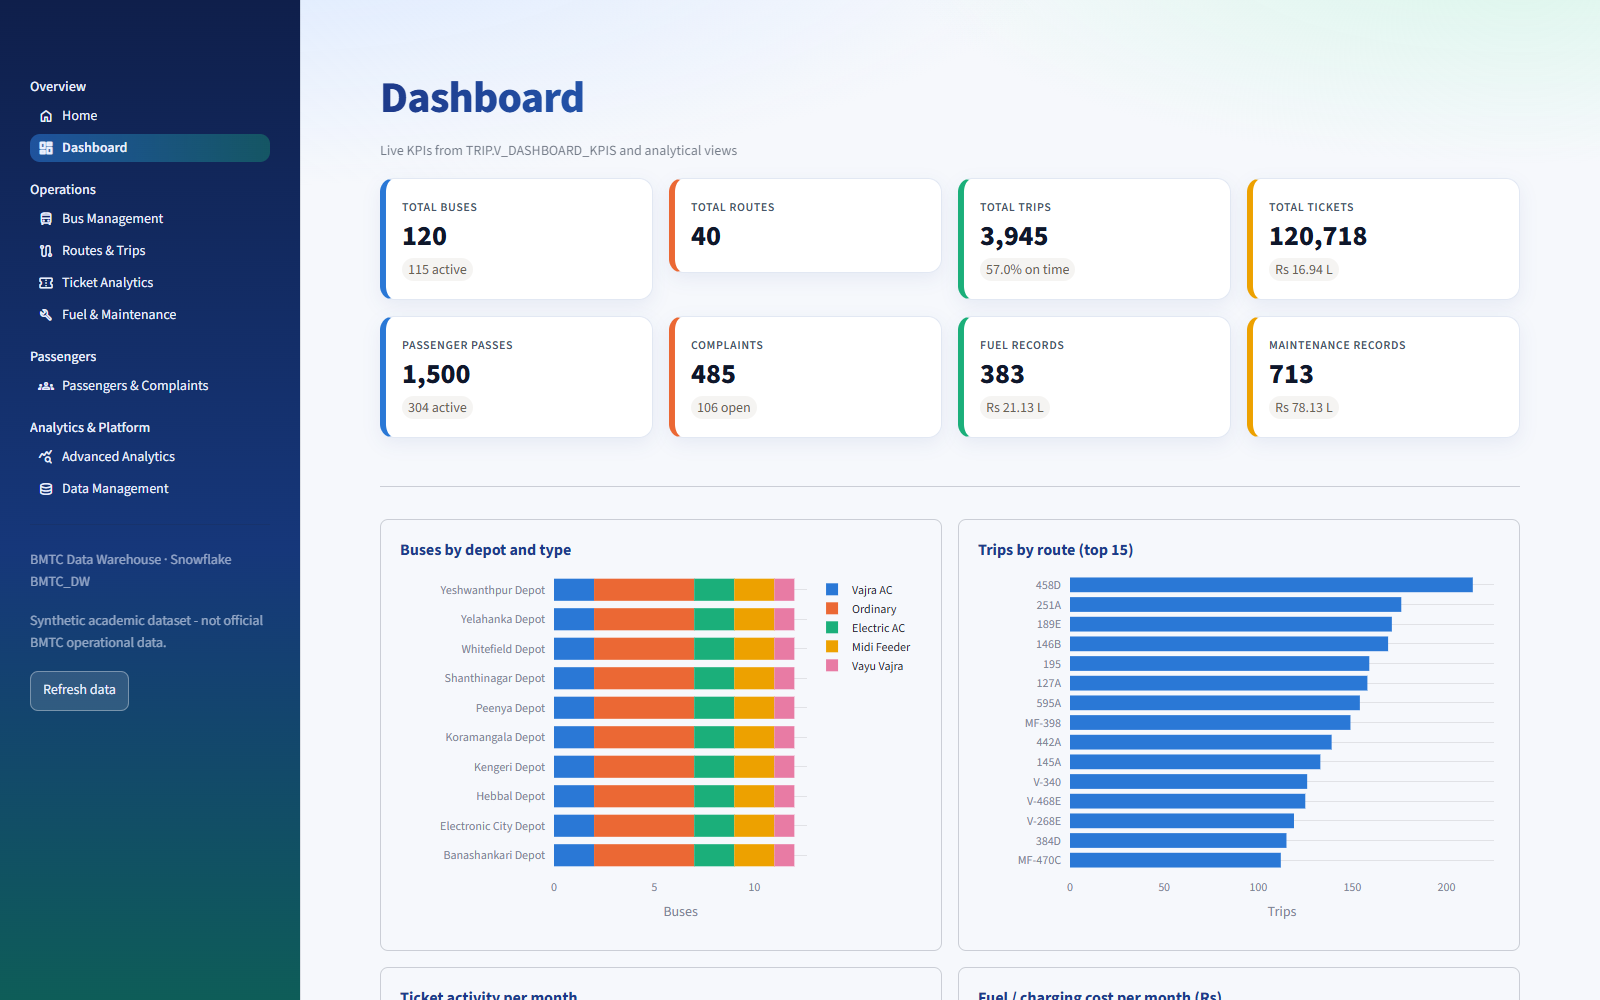
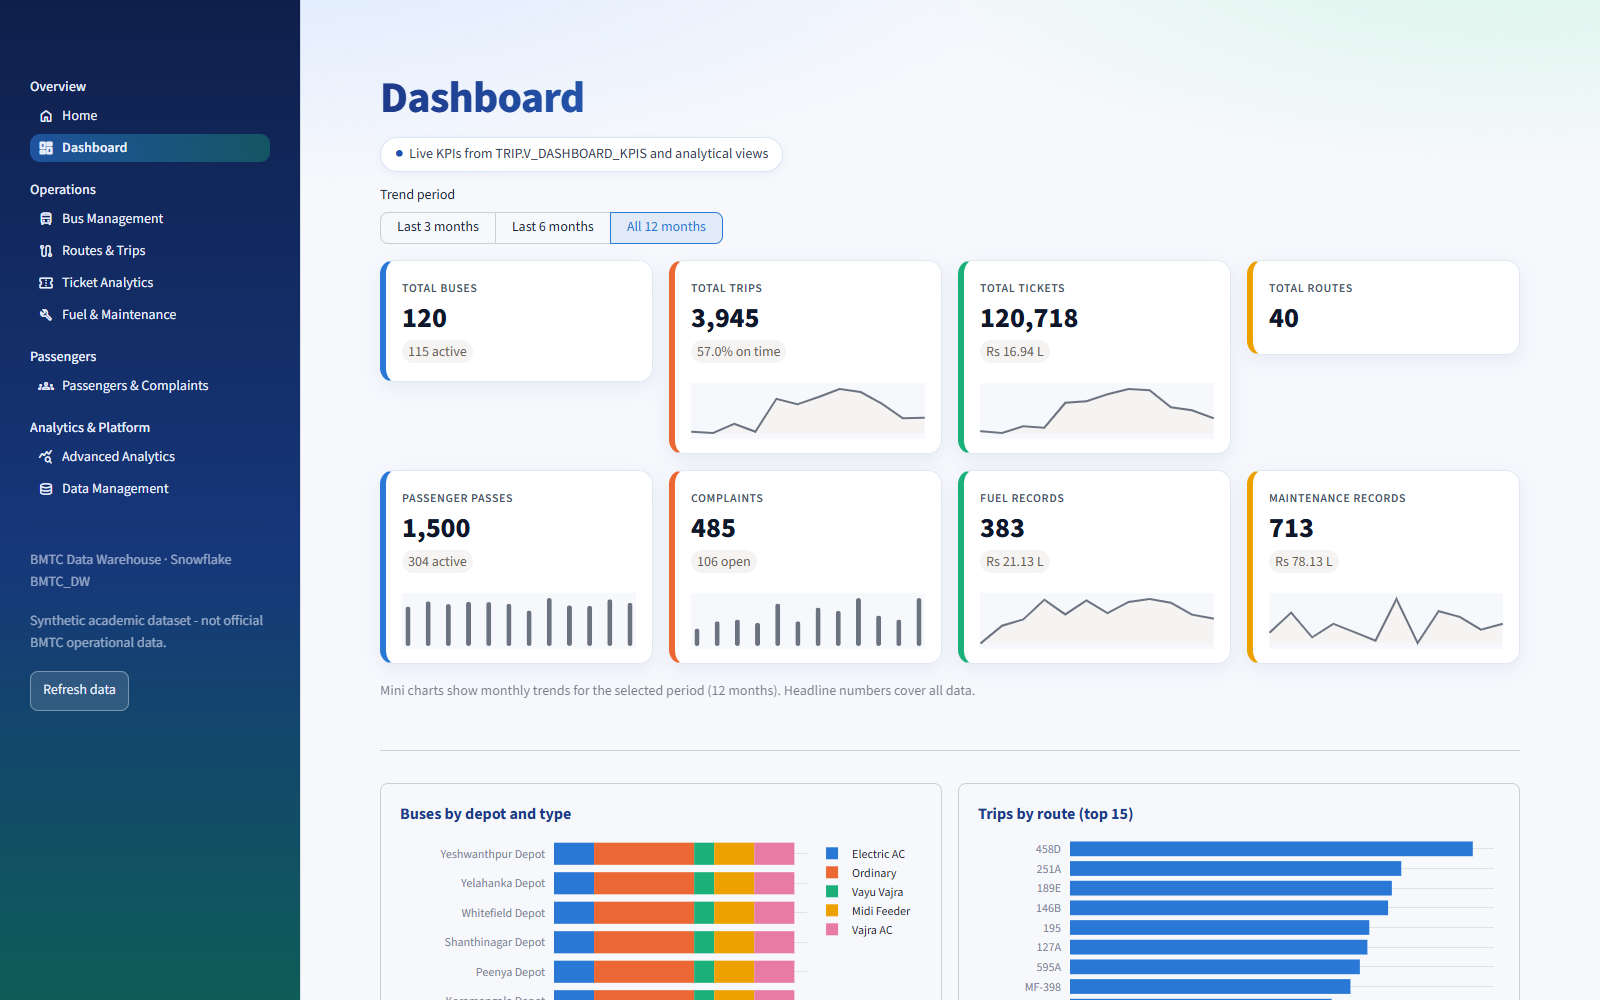
UI: animated hero, hover cards, KPI sparklines with period switch, toasts; fix deep-link 'Page not found' (rename pages/ to app_pages/)

diff --git a/app_pages/1_Dashboard.py b/app_pages/1_Dashboard.py
@@ -1,0 +1,76 @@
+import pandas as pd
+import streamlit as st
+
+from utils import queries as Q
+from utils.db import query
+from utils.ui import chart, money, num, page
+
+page("Dashboard", "Live KPIs from TRIP.V_DASHBOARD_KPIS and analytical views")
+
+kpi = query(Q.KPIS)
+if kpi.empty:
+    st.stop()
+k = kpi.iloc[0]
+
+# Period switch: re-filters the monthly trend data client-side, instantly
+period = st.segmented_control("Trend period", ["Last 3 months", "Last 6 months", "All 12 months"],
+                              default="All 12 months", key="dash_period")
+n_months = {"Last 3 months": 3, "Last 6 months": 6}.get(period or "All 12 months", 12)
+
+
+def last_months(df: pd.DataFrame, col: str = "MONTH") -> pd.DataFrame:
+    if df.empty or col not in df:
+        return df
+    months = sorted(pd.to_datetime(df[col]).dt.to_period("M").unique())[-n_months:]
+    return df[pd.to_datetime(df[col]).dt.to_period("M").isin(months)]
+
+
+trend = last_months(query(Q.MONTHLY_TRENDS))
+
+
+def spark(col: str):
+    return trend[col].fillna(0).tolist() if not trend.empty and col in trend else None
+
+
+r1 = st.columns(4)
+r1[0].metric("Total buses", num(k.TOTAL_BUSES), f"{num(k.ACTIVE_BUSES)} active", delta_color="off", delta_arrow="off")
+r1[1].metric("Total trips", num(k.TOTAL_TRIPS), f"{k.ON_TIME_PCT}% on time", delta_color="off", delta_arrow="off",
+             chart_data=spark("TRIPS"), chart_type="area")
+r1[2].metric("Total tickets", num(k.TOTAL_TICKETS), money(k.TICKET_REVENUE), delta_color="off", delta_arrow="off",
+             chart_data=spark("TICKETS"), chart_type="area")
+r1[3].metric("Total routes", num(k.TOTAL_ROUTES))
+r2 = st.columns(4)
+r2[0].metric("Passenger passes", num(k.TOTAL_PASSES), f"{num(k.ACTIVE_PASSES)} active", delta_color="off",
+             delta_arrow="off", chart_data=spark("PASSES"), chart_type="bar")
+r2[1].metric("Complaints", num(k.TOTAL_COMPLAINTS), f"{num(k.OPEN_COMPLAINTS)} open", delta_color="off",
+             delta_arrow="off", chart_data=spark("COMPLAINTS"), chart_type="bar")
+r2[2].metric("Fuel records", num(k.TOTAL_FUEL_RECORDS), money(k.FUEL_COST), delta_color="off", delta_arrow="off",
+             chart_data=spark("FUEL_COST"), chart_type="area")
+r2[3].metric("Maintenance records", num(k.TOTAL_MAINTENANCE_RECORDS), money(k.MAINTENANCE_COST), delta_color="off",
+             delta_arrow="off", chart_data=spark("MAINT_COST"), chart_type="area")
+st.caption(f"Mini charts show monthly trends for the selected period ({n_months} months). Headline numbers cover all data.")
+
+st.divider()
+c1, c2 = st.columns(2)
+with c1:
+    chart(query(Q.BUSES_BY_DEPOT), "bar", "DEPOT_NAME", "BUSES", "Buses by depot and type",
+          color="BUS_TYPE", horizontal=True, height=400)
+with c2:
+    chart(query(Q.TOP_ROUTES_BY_TRIPS), "bar", "ROUTE_CODE", "TRIPS", "Trips by route (top 15)",
+          horizontal=True, height=400, hover_data=["ROUTE_CATEGORY", "PASSENGERS", "REVENUE"])
+
+c3, c4 = st.columns(2)
+with c3:
+    chart(last_months(query(Q.MONTHLY_TICKETS)), "line", "MONTH", "TICKETS", f"Ticket activity per month ({period or 'All 12 months'})",
+          markers=True, hover_data=["REVENUE"])
+with c4:
+    chart(last_months(query(Q.MONTHLY_FUEL)), "line", "MONTH", "FUEL_COST", f"Fuel / charging cost per month, Rs ({period or 'All 12 months'})",
+          color="FUEL_TYPE", markers=True)
+
+c5, c6 = st.columns(2)
+with c5:
+    chart(query(Q.MAINT_BY_TYPE), "bar", "MAINTENANCE_TYPE", "JOBS", "Maintenance jobs by type",
+          horizontal=True, hover_data=["COST"])
+with c6:
+    chart(query(Q.COMPLAINTS_BY_CATEGORY), "bar", "CATEGORY", "COMPLAINTS", "Complaints by category",
+          horizontal=True, hover_data=["OPEN_COMPLAINTS"])

diff --git a/scripts/build_powerbi_project.py b/scripts/build_powerbi_project.py
@@ -28,7 +28,7 @@ NS = uuid.UUID("6f1c2a4e-1b0d-4c55-9a77-0b6d1c0f5a10")
 
 # model table -> (schema, view)
 TABLES = {
-    "KPI": ("TRIP", "V_DASHBOARD_KPIS"),
+    "HeadlineKPIs": ("TRIP", "V_DASHBOARD_KPIS"),
     "DimDate": ("TRIP", "V_PBI_DIM_DATE"),
     "RouteDay": ("TRIP", "V_PBI_ROUTE_DAY_FACT"),
     "Routes": ("TRIP", "V_ROUTE_PERFORMANCE"),
@@ -41,7 +41,7 @@ MEASURES = {
     "RouteDay": [("Total Revenue", "SUM(RouteDay[REVENUE])", "#,0"),
                  ("Total Passengers", "SUM(RouteDay[PASSENGERS])", "#,0"),
                  ("Total Trips", "SUM(RouteDay[TRIPS])", "#,0"),
-                 ("On-time %", "DIVIDE(SUM(RouteDay[ON_TIME_TRIPS]), SUM(RouteDay[TRIPS]))", "0.0%"),
+                 ("On-time %", "DIVIDE(SUM(RouteDay[ON_TIME_TRIPS]), SUM(RouteDay[RUN_TRIPS]))", "0.0%"),
                  ("Revenue per km", "DIVIDE(SUM(RouteDay[REVENUE]), SUM(RouteDay[KM]))", "#,0.00")],
     "Complaints": [("Complaint Count", "COUNTROWS(Complaints)", "#,0"),
                    ("Open Complaints", 'CALCULATE(COUNTROWS(Complaints), Complaints[RESOLUTION_STATUS] IN {"Open", "In Progress"})', "#,0")],
@@ -51,8 +51,8 @@ MEASURES = {
              ("Avg km per unit", "AVERAGE(Fuel[KM_PER_UNIT])", "0.00"),
              ("Fill Count", "COUNTROWS(Fuel)", "#,0")],
     "Routes": [("Route Revenue", "SUM(Routes[REVENUE])", "#,0")],
-    "KPI": [("Active Passes", "SUM(KPI[ACTIVE_PASSES])", "#,0"),
-            ("Fleet Size", "SUM(KPI[TOTAL_BUSES])", "#,0")],
+    "HeadlineKPIs": [("Active Passes", "SUM(HeadlineKPIs[ACTIVE_PASSES])", "#,0")],
+    "Buses": [("Bus Count", "COUNTROWS(Buses)", "#,0")],
 }
 RELATIONSHIPS = [("RouteDay", "DATE_KEY", "DimDate", "DATE_KEY"), ("RouteDay", "ROUTE_ID", "Routes", "ROUTE_ID")]
 PALETTE = ["#2a78d6", "#eb6834", "#1baf7a", "#eda100", "#e87ba4", "#008300", "#6250d6", "#e34948"]
@@ -208,7 +208,7 @@ def build_report() -> None:
                    "Route ranking - top to bottom", sort=(col("Routes", "REVENUE_RANK"), "Ascending")),
         ]),
         "fleet": ("Fleet, Fuel & Maintenance", [
-            visual("c5", "card", (10, 10, 300, 110), {"Values": [proj(mea("KPI", "Fleet Size"))]}, "Buses"),
+            visual("c5", "card", (10, 10, 300, 110), {"Values": [proj(mea("Buses", "Bus Count"))]}, "Buses"),
             visual("c6", "card", (320, 10, 300, 110), {"Values": [proj(mea("Fuel", "Fuel Cost"))]}, "Fuel / charging cost (Rs)"),
             visual("c7", "card", (630, 10, 300, 110), {"Values": [proj(mea("Maintenance", "Maintenance Cost"))]}, "Maintenance cost (Rs)"),
             visual("c8", "card", (940, 10, 330, 110), {"Values": [proj(mea("Complaints", "Open Complaints"))]}, "Open complaints"),
@@ -218,7 +218,7 @@ def build_report() -> None:
             visual("k1", "clusteredColumnChart", (640, 130, 630, 285),
                    {"Category": [proj(col("Maintenance", "MAINTENANCE_TYPE"), "Type")], "Y": [proj(mea("Maintenance", "Maintenance Cost"))]},
                    "Maintenance cost by type", sort=(mea("Maintenance", "Maintenance Cost"), "Descending")),
-            visual("k2", "stackedColumnChart", (10, 425, 620, 285),
+            visual("k2", "columnChart", (10, 425, 620, 285),
                    {"Category": [proj(col("Fuel", "BUS_TYPE"), "Bus type")], "Series": [proj(col("Fuel", "EFFICIENCY_CLASS"), "Class")],
                     "Y": [proj(mea("Fuel", "Fill Count"))]},
                    "Python UDF efficiency class by bus type"),

diff --git a/utils/ui.py b/utils/ui.py
@@ -1,6 +1,8 @@
 """Shared page chrome and chart helpers (validated categorical palette, fixed order)."""
 from __future__ import annotations
 
+import html
+
 import pandas as pd
 import plotly.express as px
 import streamlit as st
@@ -65,6 +67,28 @@ h2, h3 {color: #1e3a8a !important; font-weight: 700 !important;}
 .tile-icon {width: 40px; height: 40px; border-radius: 12px; display: flex; align-items: center; justify-content: center;
     font-size: 1.3rem; color: #fff;}
 .tile-desc {color: #64748b; font-size: .86rem; min-height: 2.6em;}
+/* ---- motion & interaction ---- */
+@keyframes heroShift {0% {background-position: 0% 50%;} 50% {background-position: 100% 50%;} 100% {background-position: 0% 50%;}}
+@keyframes fadeUp {from {opacity: 0; transform: translateY(10px);} to {opacity: 1; transform: none;}}
+.hero {background-size: 220% 220% !important; animation: heroShift 16s ease infinite;}
+[data-testid="stMainBlockContainer"] {animation: fadeUp .45s ease-out;}
+[data-testid="stMetric"], [data-testid="stVerticalBlockBorderWrapper"] {transition: transform .18s ease, box-shadow .18s ease, border-color .18s ease;}
+[data-testid="stMetric"]:hover {transform: translateY(-3px); box-shadow: 0 14px 28px rgba(30,58,138,.15);}
+[data-testid="stVerticalBlockBorderWrapper"]:has(> div > [data-testid="stVerticalBlock"]):hover {
+    box-shadow: 0 14px 30px rgba(30,58,138,.12); border-color: #b9cdf0 !important;}
+[data-testid="stMain"] .stButton button, [data-testid="stMain"] [data-testid="stFormSubmitButton"] button {
+    background: linear-gradient(90deg, #2a78d6, #1baf7a); color: #fff !important; border: 0; border-radius: 10px;
+    font-weight: 600; box-shadow: 0 6px 14px rgba(42,120,214,.25); transition: filter .15s ease, transform .15s ease;}
+[data-testid="stMain"] .stButton button:hover, [data-testid="stMain"] [data-testid="stFormSubmitButton"] button:hover {
+    filter: brightness(1.08); transform: translateY(-1px);}
+[data-testid="stPageLink"] a {border-radius: 10px; background: #eef4fd; font-weight: 600;}
+[data-testid="stPageLink"] a:hover {background: #dce9fb;}
+.subtitle {display: inline-block; background: #ffffff; border: 1px solid #dbe5f4; color: #334155; border-radius: 999px;
+    padding: 5px 14px; font-size: .88rem; margin: -6px 0 12px; box-shadow: 0 2px 8px rgba(30,58,138,.05);}
+.subtitle b {color: #1d4fb3;}
+[data-testid="stDataFrame"] {border-radius: 12px; overflow: hidden; box-shadow: 0 4px 14px rgba(30,58,138,.06);}
+@media (prefers-reduced-motion: reduce) {.hero, [data-testid="stMainBlockContainer"] {animation: none;}
+    [data-testid="stMetric"]:hover {transform: none;}}
 </style>
 """
 
@@ -77,7 +101,7 @@ def page(title: str, caption: str = "") -> None:
     st.markdown(_CSS, unsafe_allow_html=True)
     st.title(title)
     if caption:
-        st.caption(caption)
+        st.markdown(f'<div class="subtitle"><b>&#9679;</b>&nbsp; {html.escape(caption)}</div>', unsafe_allow_html=True)
     with st.sidebar:
         st.caption("BMTC Data Warehouse · Snowflake BMTC_DW")
         st.caption("Synthetic academic dataset - not official BMTC operational data.")

diff --git a/home.py b/home.py
@@ -37,14 +37,14 @@ st.success(f"Connected to Snowflake - {info}", icon=":material/check_circle:")
 # ---------------------------------------------------------------- module tiles
 st.subheader("Explore the system")
 TILES = [
-    ("pages/1_Dashboard.py", "Dashboard", "📊", "Live KPIs and headline charts", ":material/dashboard:", "#2a78d6"),
-    ("pages/2_Bus_Management.py", "Bus Management", "🚌", "Fleet search, depots, change bus status", ":material/directions_bus:", "#eb6834"),
-    ("pages/3_Routes_Trips.py", "Routes & Trips", "🗺", "Route detail, top/bottom routes, trip log", ":material/route:", "#1baf7a"),
-    ("pages/4_Ticket_Analytics.py", "Ticket Analytics", "🎟", "Revenue, payment mix, hourly trends", ":material/confirmation_number:", "#eda100"),
-    ("pages/5_Fuel_Maintenance.py", "Fuel & Maintenance", "⛽", "Efficiency (Python UDF), workshop jobs", ":material/build:", "#e87ba4"),
-    ("pages/6_Passenger_Complaints.py", "Passengers & Complaints", "👥", "Passes, JSON complaints, triage", ":material/groups:", "#008300"),
-    ("pages/7_Advanced_Analytics.py", "Advanced Analytics", "📈", "CTEs, window functions, subqueries", ":material/query_stats:", "#6250d6"),
-    ("pages/8_Data_Management.py", "Data Management", "🗄", "Time Travel, clone, stream & task", ":material/database:", "#e34948"),
+    ("app_pages/1_Dashboard.py", "Dashboard", "📊", "Live KPIs and headline charts", ":material/dashboard:", "#2a78d6"),
+    ("app_pages/2_Bus_Management.py", "Bus Management", "🚌", "Fleet search, depots, change bus status", ":material/directions_bus:", "#eb6834"),
+    ("app_pages/3_Routes_Trips.py", "Routes & Trips", "🗺", "Route detail, top/bottom routes, trip log", ":material/route:", "#1baf7a"),
+    ("app_pages/4_Ticket_Analytics.py", "Ticket Analytics", "🎟", "Revenue, payment mix, hourly trends", ":material/confirmation_number:", "#eda100"),
+    ("app_pages/5_Fuel_Maintenance.py", "Fuel & Maintenance", "⛽", "Efficiency (Python UDF), workshop jobs", ":material/build:", "#e87ba4"),
+    ("app_pages/6_Passenger_Complaints.py", "Passengers & Complaints", "👥", "Passes, JSON complaints, triage", ":material/groups:", "#008300"),
+    ("app_pages/7_Advanced_Analytics.py", "Advanced Analytics", "📈", "CTEs, window functions, subqueries", ":material/query_stats:", "#6250d6"),
+    ("app_pages/8_Data_Management.py", "Data Management", "🗄", "Time Travel, clone, stream & task", ":material/database:", "#e34948"),
 ]
 for row in range(0, len(TILES), 4):
     cols = st.columns(4)

diff --git a/app.py b/app.py
@@ -9,20 +9,20 @@ st.set_page_config(page_title="BMTC Analytics", page_icon=":material/directions_
 nav = st.navigation({
     "Overview": [
         st.Page("home.py", title="Home", icon=":material/home:", default=True),
-        st.Page("pages/1_Dashboard.py", url_path="dashboard", title="Dashboard", icon=":material/dashboard:"),
+        st.Page("app_pages/1_Dashboard.py", url_path="dashboard", title="Dashboard", icon=":material/dashboard:"),
     ],
     "Operations": [
-        st.Page("pages/2_Bus_Management.py", url_path="bus-management", title="Bus Management", icon=":material/directions_bus:"),
-        st.Page("pages/3_Routes_Trips.py", url_path="routes-trips", title="Routes & Trips", icon=":material/route:"),
-        st.Page("pages/4_Ticket_Analytics.py", url_path="ticket-analytics", title="Ticket Analytics", icon=":material/confirmation_number:"),
-        st.Page("pages/5_Fuel_Maintenance.py", url_path="fuel-maintenance", title="Fuel & Maintenance", icon=":material/build:"),
+        st.Page("app_pages/2_Bus_Management.py", url_path="bus-management", title="Bus Management", icon=":material/directions_bus:"),
+        st.Page("app_pages/3_Routes_Trips.py", url_path="routes-trips", title="Routes & Trips", icon=":material/route:"),
+        st.Page("app_pages/4_Ticket_Analytics.py", url_path="ticket-analytics", title="Ticket Analytics", icon=":material/confirmation_number:"),
+        st.Page("app_pages/5_Fuel_Maintenance.py", url_path="fuel-maintenance", title="Fuel & Maintenance", icon=":material/build:"),
     ],
     "Passengers": [
-        st.Page("pages/6_Passenger_Complaints.py", url_path="passengers-complaints", title="Passengers & Complaints", icon=":material/groups:"),
+        st.Page("app_pages/6_Passenger_Complaints.py", url_path="passengers-complaints", title="Passengers & Complaints", icon=":material/groups:"),
     ],
     "Analytics & Platform": [
-        st.Page("pages/7_Advanced_Analytics.py", url_path="advanced-analytics", title="Advanced Analytics", icon=":material/query_stats:"),
-        st.Page("pages/8_Data_Management.py", url_path="data-management", title="Data Management", icon=":material/database:"),
+        st.Page("app_pages/7_Advanced_Analytics.py", url_path="advanced-analytics", title="Advanced Analytics", icon=":material/query_stats:"),
+        st.Page("app_pages/8_Data_Management.py", url_path="data-management", title="Data Management", icon=":material/database:"),
     ],
 })
 nav.run()

diff --git a/utils/queries.py b/utils/queries.py
@@ -6,7 +6,7 @@ KPIS = "SELECT * FROM BMTC_DW.TRIP.V_DASHBOARD_KPIS"
 BUSES_BY_DEPOT = """
 SELECT d.DEPOT_NAME, b.BUS_TYPE, COUNT(*) AS BUSES
 FROM BMTC_DW.BUS.BUS_MASTER b JOIN BMTC_DW.BUS.DEPOT_MASTER d ON d.DEPOT_ID = b.DEPOT_ID
-GROUP BY d.DEPOT_NAME, b.BUS_TYPE ORDER BY d.DEPOT_NAME"""
+GROUP BY d.DEPOT_NAME, b.BUS_TYPE ORDER BY b.BUS_TYPE, d.DEPOT_NAME"""
 
 TOP_ROUTES_BY_TRIPS = """
 SELECT ROUTE_CODE, ROUTE_CATEGORY, TRIPS, PASSENGERS, REVENUE
@@ -19,6 +19,18 @@ FROM BMTC_DW.TRIP.TICKET_DATA GROUP BY 1 ORDER BY 1"""
 MONTHLY_FUEL = """
 SELECT FUEL_MONTH::DATE AS MONTH, FUEL_TYPE, SUM(TOTAL_COST) AS FUEL_COST, SUM(QUANTITY) AS QUANTITY
 FROM BMTC_DW.TRIP.V_FUEL_EFFICIENCY GROUP BY 1, 2 ORDER BY 1"""
+
+MONTHLY_TRENDS = """
+WITH tr AS (SELECT DATE_TRUNC('MONTH', TRIP_DATE)::DATE AS MONTH, COUNT(*) AS TRIPS FROM BMTC_DW.TRIP.TRIP_DATA GROUP BY 1),
+     tk AS (SELECT DATE_TRUNC('MONTH', TICKET_DATE)::DATE AS MONTH, COUNT(*) AS TICKETS FROM BMTC_DW.TRIP.TICKET_DATA GROUP BY 1),
+     ps AS (SELECT DATE_TRUNC('MONTH', ISSUE_DATE)::DATE AS MONTH, COUNT(*) AS PASSES FROM BMTC_DW.PASSENGER.PASS_DATA GROUP BY 1),
+     cp AS (SELECT DATE_TRUNC('MONTH', SUBMITTED_AT)::DATE AS MONTH, COUNT(*) AS COMPLAINTS FROM BMTC_DW.PASSENGER.COMPLAINTS_JSON GROUP BY 1),
+     fu AS (SELECT DATE_TRUNC('MONTH', FUEL_DATE)::DATE AS MONTH, SUM(TOTAL_COST) AS FUEL_COST FROM BMTC_DW.TRIP.FUEL_LOG GROUP BY 1),
+     mt AS (SELECT DATE_TRUNC('MONTH', MAINTENANCE_DATE)::DATE AS MONTH, SUM(TOTAL_COST) AS MAINT_COST FROM BMTC_DW.TRIP.MAINTENANCE_LOG GROUP BY 1)
+SELECT tr.MONTH, tr.TRIPS, tk.TICKETS, ps.PASSES, cp.COMPLAINTS, fu.FUEL_COST, mt.MAINT_COST
+FROM tr LEFT JOIN tk USING (MONTH) LEFT JOIN ps USING (MONTH) LEFT JOIN cp USING (MONTH)
+        LEFT JOIN fu USING (MONTH) LEFT JOIN mt USING (MONTH)
+ORDER BY tr.MONTH"""
 
 MAINT_BY_TYPE = """
 SELECT MAINTENANCE_TYPE, COUNT(*) AS JOBS, SUM(TOTAL_COST) AS COST

diff --git a/tests/test_navigation_errors.py b/tests/test_navigation_errors.py
@@ -8,9 +8,9 @@ from pathlib import Path
 from streamlit.testing.v1 import AppTest
 
 ROOT = Path(__file__).resolve().parents[1]
-PAGES = ["pages/1_Dashboard.py", "pages/2_Bus_Management.py", "pages/3_Routes_Trips.py",
-         "pages/4_Ticket_Analytics.py", "pages/5_Fuel_Maintenance.py", "pages/6_Passenger_Complaints.py",
-         "pages/7_Advanced_Analytics.py", "pages/8_Data_Management.py"]
+PAGES = ["app_pages/1_Dashboard.py", "app_pages/2_Bus_Management.py", "app_pages/3_Routes_Trips.py",
+         "app_pages/4_Ticket_Analytics.py", "app_pages/5_Fuel_Maintenance.py", "app_pages/6_Passenger_Complaints.py",
+         "app_pages/7_Advanced_Analytics.py", "app_pages/8_Data_Management.py"]
 
 if len(sys.argv) > 1 and sys.argv[1] == "--broken":
     # child process: environment points at a non-existent account

diff --git a/app_pages/6_Passenger_Complaints.py b/app_pages/6_Passenger_Complaints.py
@@ -150,6 +150,7 @@ with new_tab:
                                  SELECT %(id)s, %(ts)s, PARSE_JSON(%(doc)s), 'APP'""",
                               {"id": cid, "ts": now, "doc": json.dumps(doc)})])
                     st.success(f"Complaint {cid} registered.")
+                    st.toast(f"Complaint {cid} registered", icon=":material/check_circle:")
                     st.json(doc)
                 except Exception as exc:  # noqa: BLE001
                     st.error(f"Could not register complaint: {exc}")

diff --git a/app_pages/5_Fuel_Maintenance.py b/app_pages/5_Fuel_Maintenance.py
@@ -137,5 +137,6 @@ with maint_tab:
                           {"bus": bus_id, "d": mdate, "t": mtype, "desc": desc.strip() or mtype, "p": parts,
                            "l": labour, "h": down, "sev": severity})])
                 st.success(f"Job saved for {reg}.")
+                st.toast(f"Workshop job saved for {reg}", icon=":material/check_circle:")
             except Exception as exc:  # noqa: BLE001
                 st.error(f"Could not save: {exc}")

diff --git a/app_pages/2_Bus_Management.py b/app_pages/2_Bus_Management.py
@@ -89,6 +89,7 @@ if not all_buses.empty:
                      {"new": new_status, "id": int(row.BUS_ID)}),
                 ])
                 st.success(f"{reg}: {row.STATUS} -> {new_status} (committed).")
+                st.toast(f"{reg} is now {new_status}", icon=":material/check_circle:")
             except Exception as exc:  # noqa: BLE001
                 st.error(f"Update rolled back: {exc}")
 

diff --git a/tests/test_app.py b/tests/test_app.py
@@ -6,7 +6,7 @@ import sys
 from streamlit.testing.v1 import AppTest
 
 ROOT = Path(__file__).resolve().parents[1]
-PAGES = ["app.py"] + sorted(str(p.relative_to(ROOT)) for p in (ROOT / "pages").glob("*.py"))
+PAGES = ["app.py"] + sorted(str(p.relative_to(ROOT)) for p in (ROOT / "app_pages").glob("*.py"))
 
 
 def run_page(path: str):

diff --git a/tests/test_interactions.py b/tests/test_interactions.py
@@ -38,7 +38,7 @@ def check(name, cond, detail=""):
 
 
 def page(p):
-    at = AppTest.from_file(str(ROOT / "pages" / p), default_timeout=180)
+    at = AppTest.from_file(str(ROOT / "app_pages" / p), default_timeout=180)
     at.run()
     return at
 
